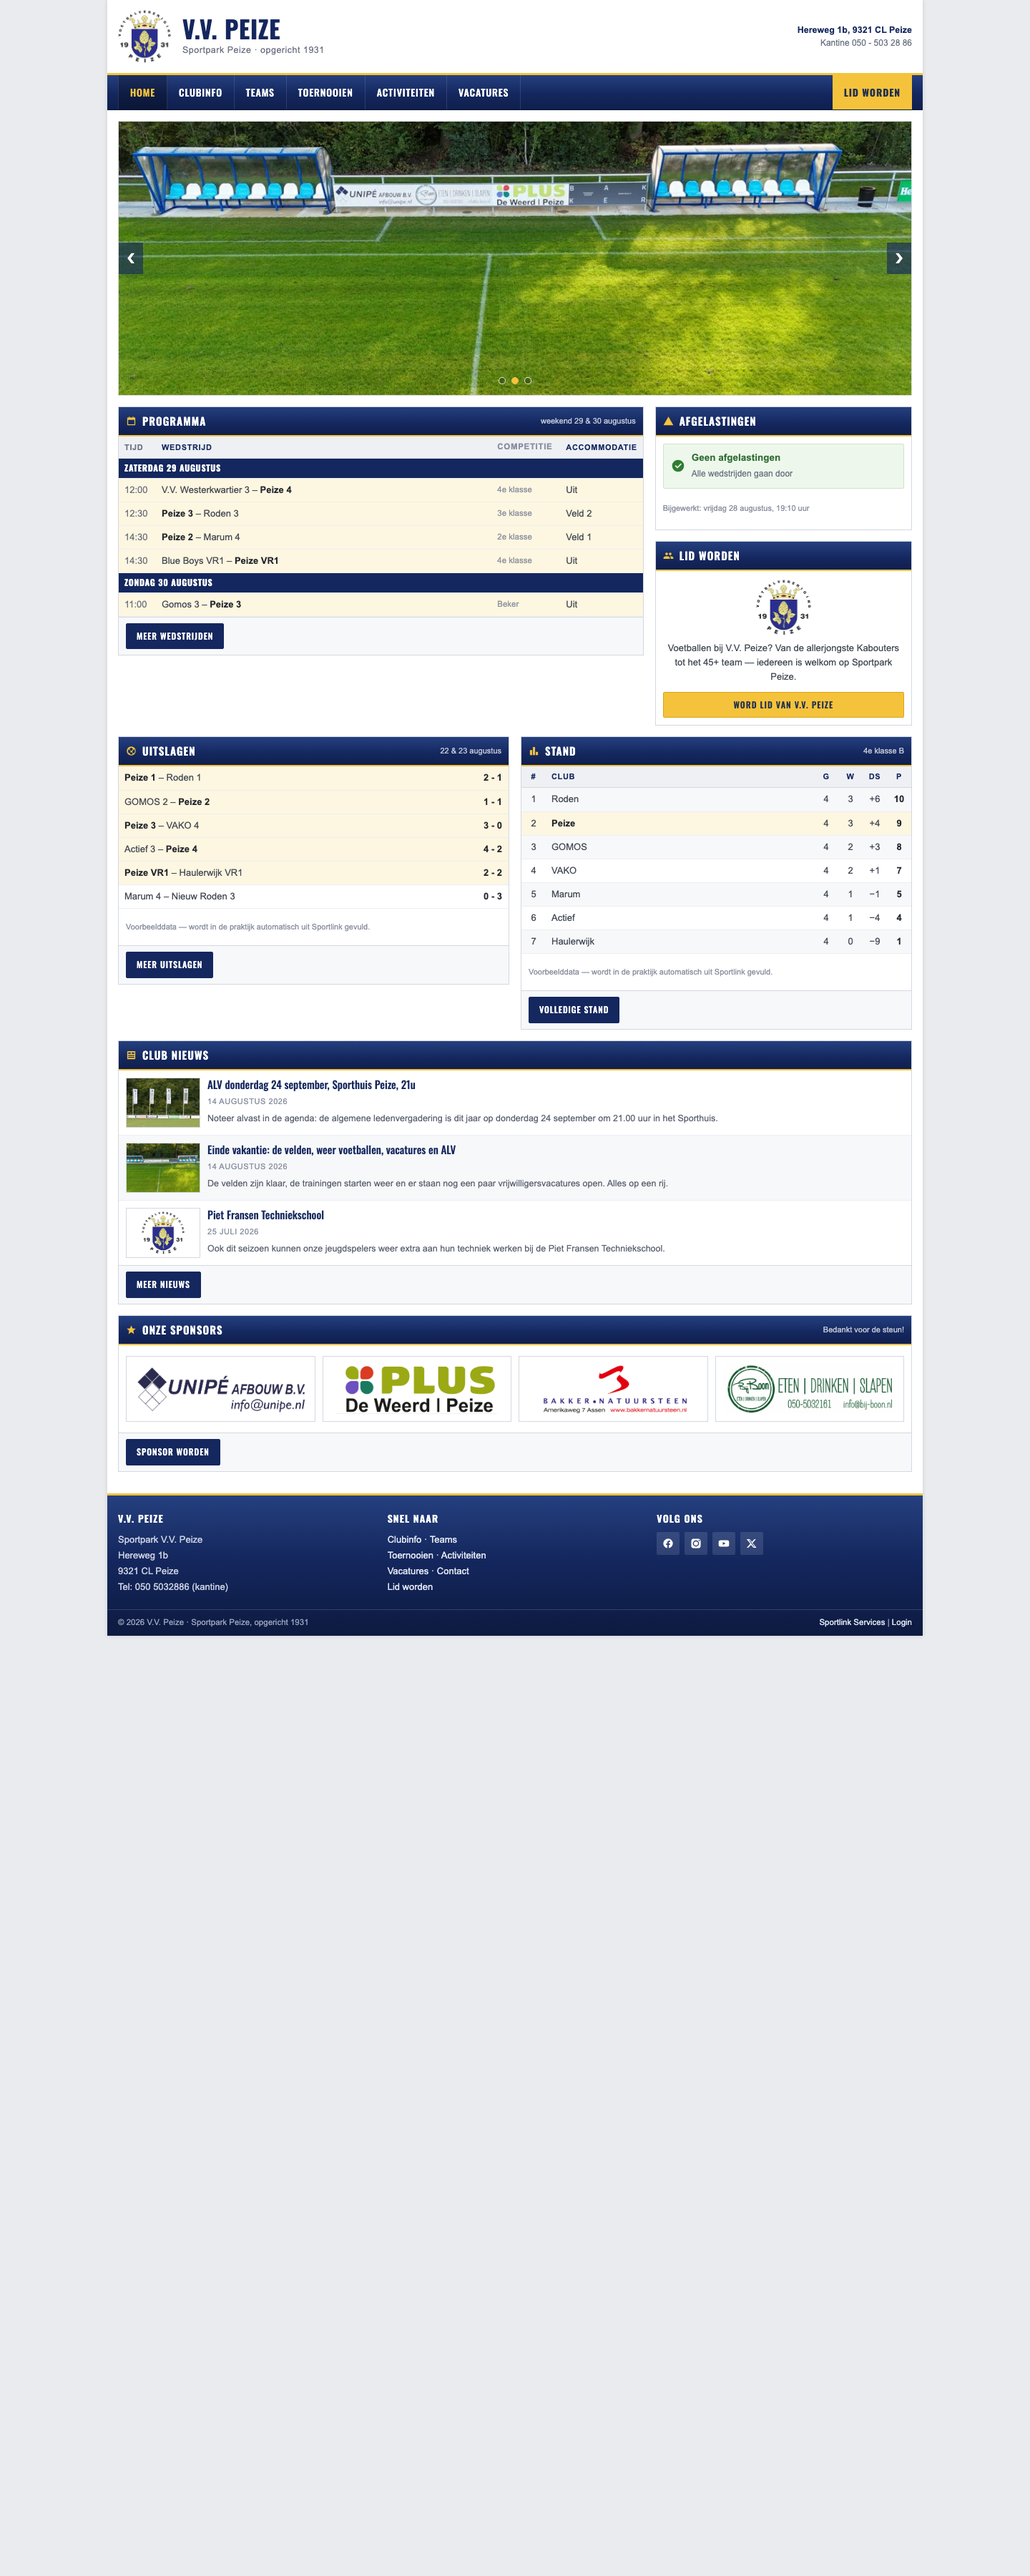
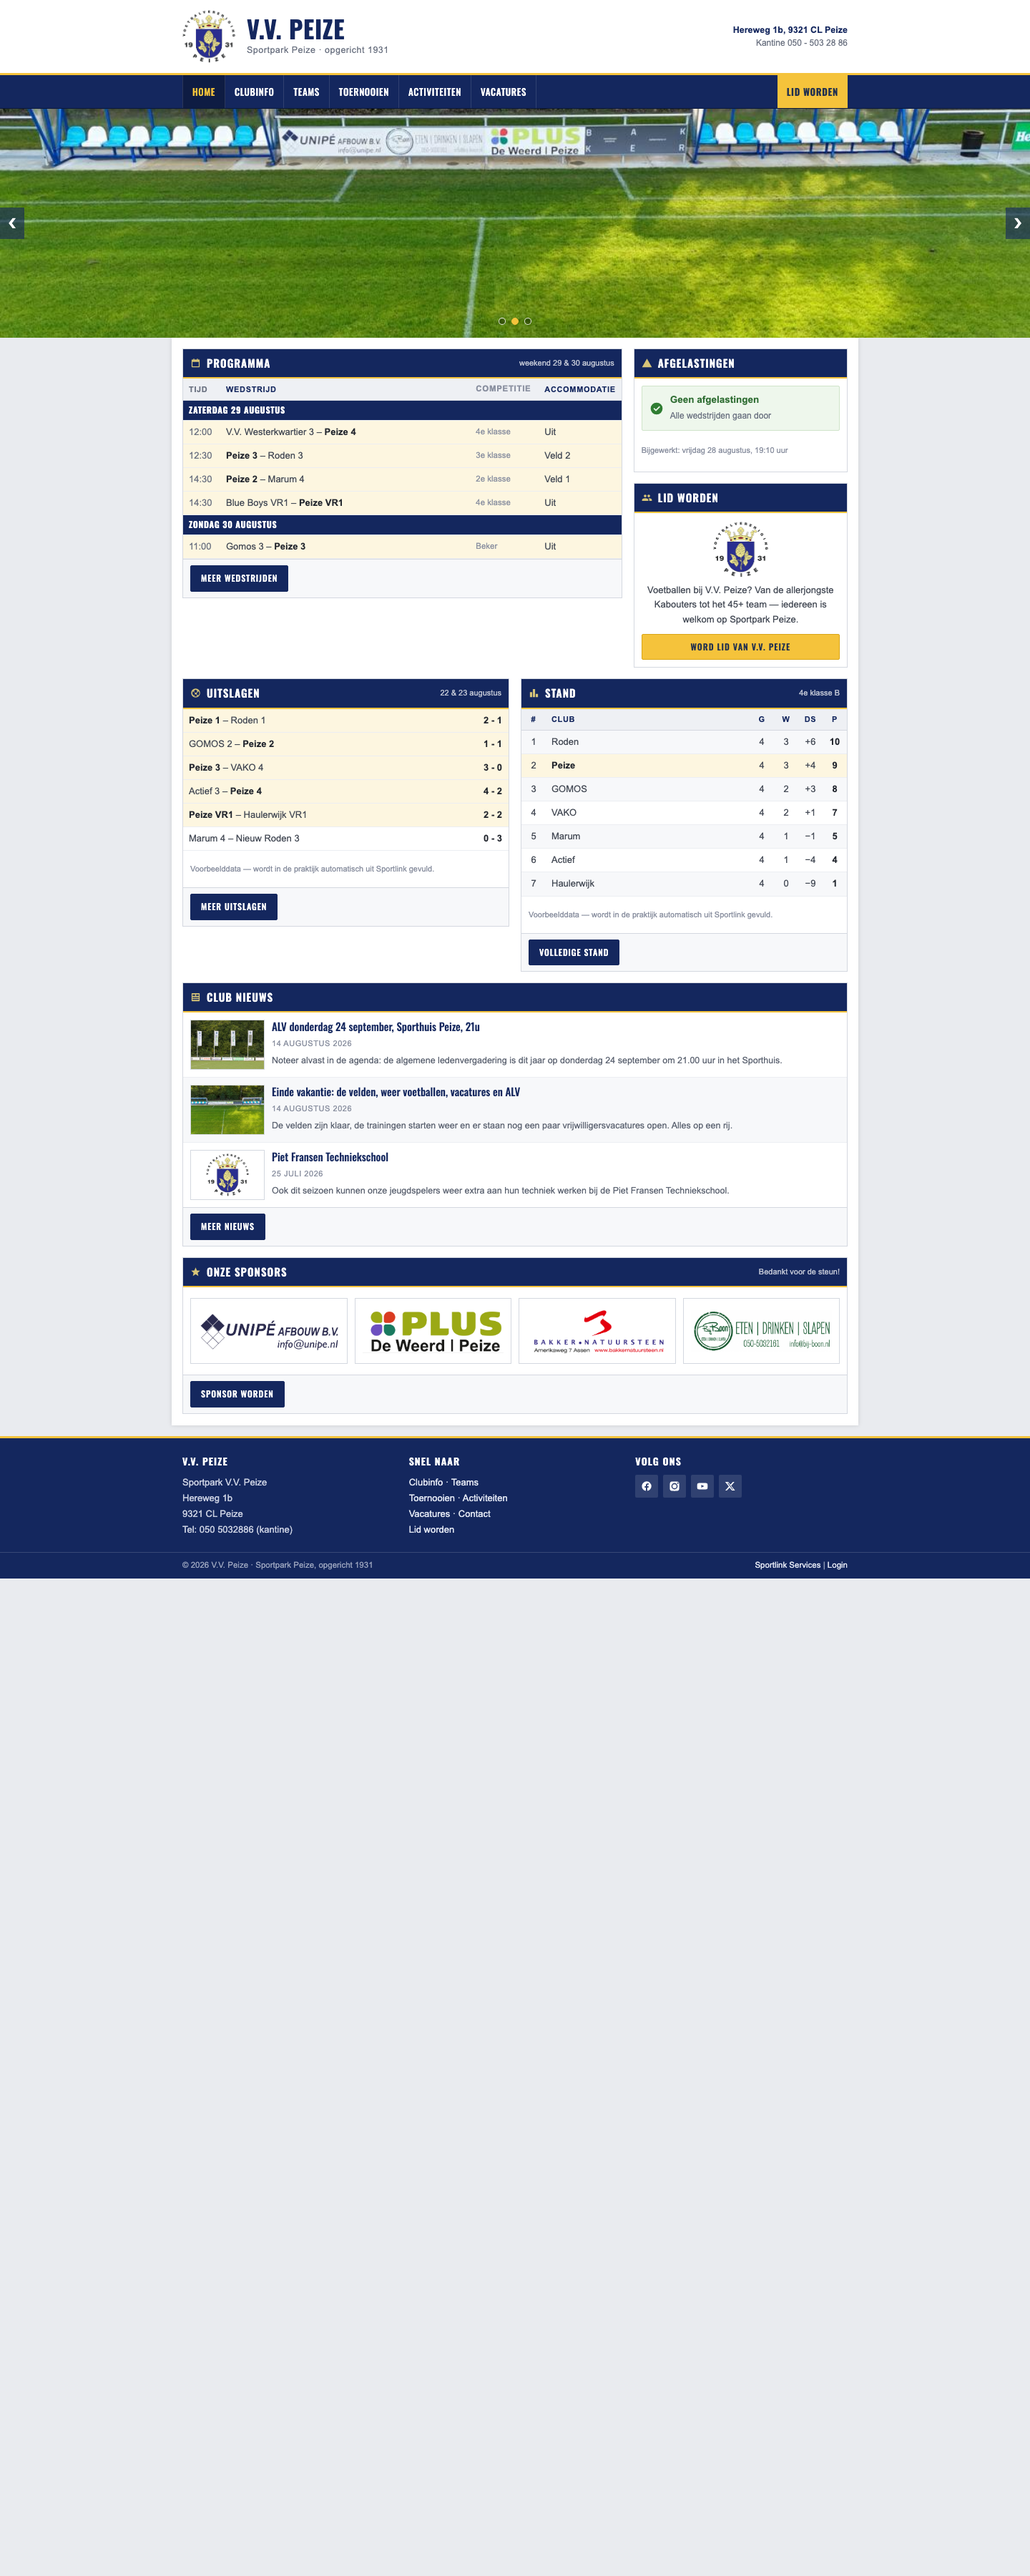
Sportlink-variant bijgewerkt: vlakke kleuren, full-width fotoheader, 960px contentkolom

Changed region(s): [[0.0, 0.0, 1.0, 0.6533]]

diff --git a/mockup/index-sportlink.html b/mockup/index-sportlink.html
@@ -12,18 +12,20 @@
 /* ============================================================
    V.V. Peize — variant "binnen Sportlink Club.Website"
    Alles hieronder is na te bouwen met de standaard instellingen
-   van het Sportlink/nxs-thema: boxed layout, 5 kleuren,
-   1 koppenlettertype, rijen met 1-4 kolommen + widgets.
+   van het Sportlink/nxs-thema: contentkolom van 960px, vlakke
+   kleuren, full-width fotoheader, 1 koppenlettertype,
+   rijen met 1-4 kolommen + widgets.
    ============================================================ */
 :root{
   --navy:#14275e;          /* kleur 1: primair */
-  --navy-top:#25407f;      /* kleur 2: bovenkant balkgradient */
   --gold:#f5c33b;          /* kleur 3: accent */
   --gold-dark:#d9a516;
+  --gold-icon:#D8C578;     /* icoonkleur in de titelbalken */
   --page:#e9ebef;          /* kleur 4: pagina-achtergrond */
   --line:#d4d8e0;          /* kleur 5: lijnen */
   --ink:#22262e;
   --body:#454b56;
+  --wrap:960px;            /* echte contentbreedte Sportlink-thema */
 }
 *,*::before,*::after{box-sizing:border-box;}
 html{-webkit-text-size-adjust:100%;}
@@ -39,14 +41,15 @@ img{max-width:100%;display:block;}
 a{color:#1d3a86;text-decoration:none;}
 a:hover{text-decoration:underline;}
 
-/* ---------- boxed layout: vaste kolom van 1140px ---------- */
-.page{
-  max-width:1140px;
+/* ---------- layout: full-width banden + contentkolom van 960px ---------- */
+.page{width:100%;}
+.inner{
+  max-width:var(--wrap);
   margin:0 auto;
   background:#fff;
   box-shadow:0 0 6px rgba(0,0,0,.13);
+  padding:0 15px 1px;
 }
-.inner{padding:0 15px;}
 .row{display:flex;flex-wrap:wrap;margin:0 -8px;}
 .col{padding:0 8px;width:100%;}
 .col-8{width:66.6667%;}
@@ -59,7 +62,7 @@ a:hover{text-decoration:underline;}
   border-bottom:3px solid var(--gold);
 }
 .topbar-in{
-  max-width:1140px;margin:0 auto;padding:14px 15px;
+  max-width:var(--wrap);margin:0 auto;padding:14px 15px;
   display:flex;align-items:center;gap:16px;
 }
 .topbar img{width:74px;height:74px;object-fit:contain;flex:none;}
@@ -82,12 +85,12 @@ a:hover{text-decoration:underline;}
 }
 .topbar-right strong{color:var(--navy);font-size:12.5px;}
 
-/* ---------- 2. navy menubalk ---------- */
+/* ---------- 2. navy menubalk (full-width, vlakke kleur) ---------- */
 .nav{
-  background:linear-gradient(180deg,var(--navy-top) 0%,var(--navy) 55%,#0f1f4d 100%);
+  background:var(--navy);
   border-bottom:1px solid #0b1738;
 }
-.nav-in{max-width:1140px;margin:0 auto;padding:0 15px;display:flex;align-items:stretch;}
+.nav-in{max-width:var(--wrap);margin:0 auto;padding:0 15px;display:flex;align-items:stretch;}
 .nav ul{list-style:none;margin:0;padding:0;display:flex;flex-wrap:wrap;width:100%;}
 .nav li{display:block;}
 .nav li.spacer{margin-left:auto;}
@@ -95,11 +98,11 @@ a:hover{text-decoration:underline;}
   display:block;
   font-family:'Oswald',Arial,sans-serif;
   font-weight:500;
-  font-size:14px;
-  letter-spacing:.06em;
+  font-size:13px;
+  letter-spacing:.05em;
   text-transform:uppercase;
   color:#fff;
-  padding:13px 16px;
+  padding:13px 13px;
   border-right:1px solid rgba(255,255,255,.12);
   text-decoration:none;
 }
@@ -120,15 +123,16 @@ a:hover{text-decoration:underline;}
 .hamburger .bars{display:inline-block;width:18px;}
 .hamburger .bars i{display:block;height:2px;background:#fff;margin:3px 0;}
 
-/* ---------- 3. fotoslider (boxed, alleen foto's) ---------- */
+/* ---------- 3. fotoheader: full-width, rand tot rand ---------- */
 .slider{
   position:relative;
-  margin:15px 0 0;
+  width:100%;
+  margin:0;
   background:#0d1a40;
   overflow:hidden;
-  border:1px solid var(--line);
+  border:0;
 }
-.slides{position:relative;padding-top:34.5%;}
+.slides{position:relative;height:320px;}
 .slides figure{
   position:absolute;inset:0;margin:0;opacity:0;transition:opacity .5s ease;
 }
@@ -144,7 +148,7 @@ a:hover{text-decoration:underline;}
 .sl-prev{left:0;}
 .sl-next{right:0;}
 .dots{
-  position:absolute;left:0;right:0;bottom:9px;text-align:center;
+  position:absolute;left:0;right:0;bottom:12px;text-align:center;
 }
 .dots button{
   width:10px;height:10px;padding:0;margin:0 4px;border-radius:50%;
@@ -159,12 +163,12 @@ a:hover{text-decoration:underline;}
   margin:15px 0 0;
 }
 .widget-head{
-  background:linear-gradient(180deg,var(--navy-top) 0%,var(--navy) 60%,#101f4e 100%);
+  background:var(--navy);
   border-bottom:2px solid var(--gold);
   padding:8px 10px;
   display:flex;align-items:center;gap:8px;
 }
-.widget-head svg{width:15px;height:15px;fill:var(--gold);flex:none;}
+.widget-head svg{width:15px;height:15px;fill:var(--gold-icon);flex:none;}
 .widget-head h2{
   font-family:'Oswald',Arial,sans-serif;
   font-weight:600;font-size:15px;letter-spacing:.07em;text-transform:uppercase;
@@ -263,10 +267,10 @@ tr.peize:hover td{background:#faeec9;}
 
 /* ---------- footer ---------- */
 .foot{
-  background:linear-gradient(180deg,var(--navy-top) 0%,var(--navy) 45%,#0d1a40 100%);
+  background:var(--navy);
   color:#c8cee0;margin-top:15px;border-top:3px solid var(--gold);
 }
-.foot-in{max-width:1140px;margin:0 auto;padding:20px 15px;display:flex;flex-wrap:wrap;gap:20px;}
+.foot-in{max-width:var(--wrap);margin:0 auto;padding:20px 15px;display:flex;flex-wrap:wrap;gap:20px;}
 .foot h4{
   font-family:'Oswald',Arial,sans-serif;font-weight:600;font-size:14px;
   letter-spacing:.08em;text-transform:uppercase;color:#fff;margin:0 0 7px;
@@ -285,7 +289,7 @@ tr.peize:hover td{background:#faeec9;}
   border-top:1px solid rgba(255,255,255,.15);
   font-size:11.5px;color:#9aa4be;
 }
-.foot-bottom div{max-width:1140px;margin:0 auto;padding:9px 15px;
+.foot-bottom div{max-width:var(--wrap);margin:0 auto;padding:9px 15px;
   display:flex;flex-wrap:wrap;gap:6px 14px;justify-content:space-between;}
 
 .note{font-size:11px;color:#8a90a0;padding:6px 10px;}
@@ -307,7 +311,7 @@ tr.peize:hover td{background:#faeec9;}
     border-right:0;border-left:0;border-bottom:1px solid rgba(255,255,255,.12);
   }
   .nav li.spacer{margin-left:0;}
-  .slides{padding-top:56%;}
+  .slides{height:190px;}
   .sponsors div{width:50%;}
   .news .thumb{width:78px;height:60px;}
   .t-comp{display:none;}
@@ -351,19 +355,19 @@ tr.peize:hover td{background:#faeec9;}
     </div>
   </nav>
 
-  <div class="inner">
-
-    <!-- ============ 3. FOTOSLIDER ============ -->
-    <div class="slider" id="slider">
-      <div class="slides" id="slides">
-        <figure class="on"><img src="assets/veld3.jpg" alt="Sportpark V.V. Peize"></figure>
-        <figure><img src="assets/veld2.jpg" alt="Voetbalveld V.V. Peize"></figure>
-        <figure><img src="assets/veld1.jpg" alt="Hoofdveld V.V. Peize"></figure>
-      </div>
-      <button class="sl-arrow sl-prev" id="slPrev" aria-label="Vorige foto">&#10094;</button>
-      <button class="sl-arrow sl-next" id="slNext" aria-label="Volgende foto">&#10095;</button>
-      <div class="dots" id="dots"></div>
+  <!-- ============ 3. FOTOHEADER (full-width) ============ -->
+  <div class="slider" id="slider">
+    <div class="slides" id="slides">
+      <figure class="on"><img src="assets/veld3.jpg" alt="Sportpark V.V. Peize"></figure>
+      <figure><img src="assets/veld2.jpg" alt="Voetbalveld V.V. Peize"></figure>
+      <figure><img src="assets/veld1.jpg" alt="Hoofdveld V.V. Peize"></figure>
     </div>
+    <button class="sl-arrow sl-prev" id="slPrev" aria-label="Vorige foto">&#10094;</button>
+    <button class="sl-arrow sl-next" id="slNext" aria-label="Volgende foto">&#10095;</button>
+    <div class="dots" id="dots"></div>
+  </div>
+
+  <div class="inner">
 
     <!-- ============ 4. RIJ: PROGRAMMA + AFGELASTINGEN/LID WORDEN ============ -->
     <div class="row">
